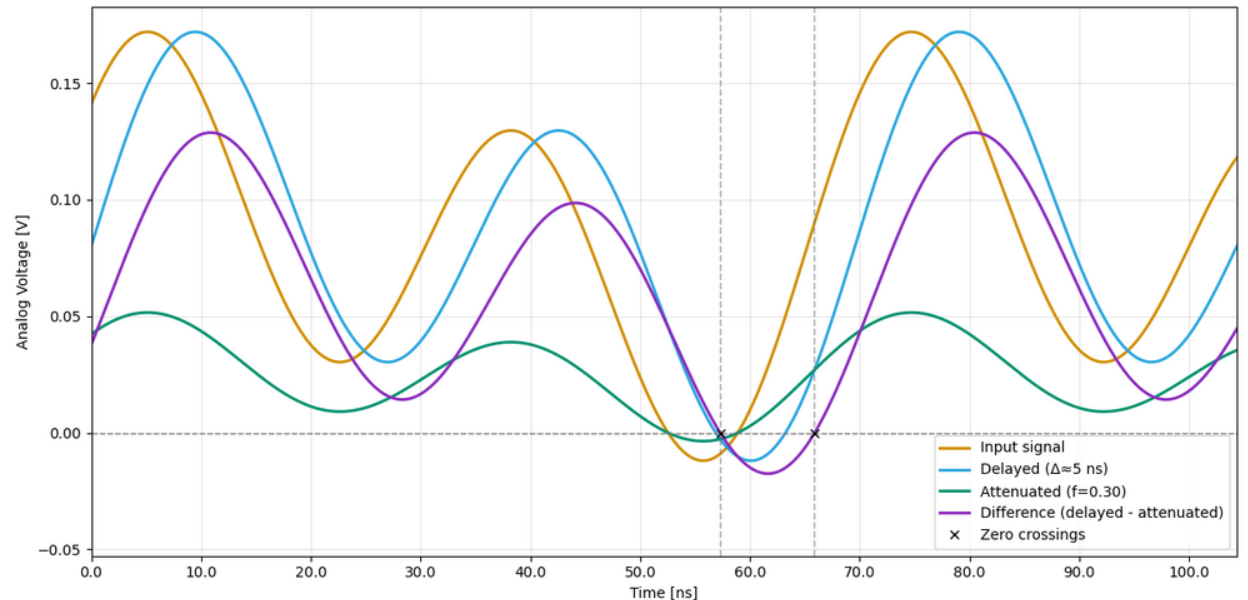
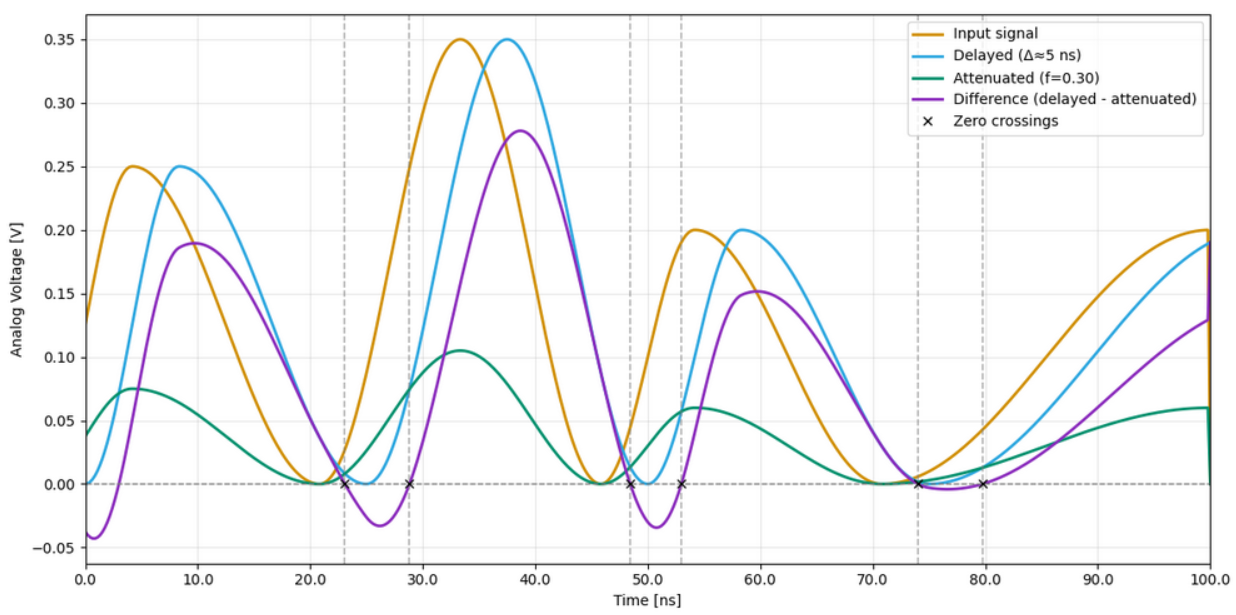
Update python file and images

Changed region(s): [[0.0, 0.0, 1.0, 1.0], [0.7686, 0.54, 0.7994, 0.6]]

diff --git a/python/cfd-100.py b/python/cfd-100.py
@@ -5,15 +5,35 @@ import matplotlib.pyplot as plt
 delay_ns = 5
 attenuation = 0.30
 
-t = np.linspace(0, 125, 2000)
+t = np.linspace(0, 525, 2000)
 
 
-def input_signal(t):
-    y = 0.07 * np.sin(2 * np.pi * t / 40)
-    y += 0.03 * np.sin(2 * np.pi * t / 80)
-    y += 0.08
+def sine_segment(t, t_start, t_end, y_start, y_end):
+    y = np.zeros_like(t)
+    
+    mask = (t >= t_start) & (t <= t_end)
+    x = (t[mask] - t_start) / (t_end - t_start)
+    
+    y[mask] = y_start + (y_end - y_start) * 0.5 * (1 - np.cos(np.pi * x))
+    
     return y
 
+def input_signal(t):
+    y = np.zeros_like(t)
+
+    y += sine_segment(t, 0, 10, 0, 0.25)    # rise to 0.25
+    y += sine_segment(t, 10, 30, 0.25, 0)    # fall to 0
+
+    y += sine_segment(t, 30, 45, 0, 0.35)    # rise to 0.45
+    y += sine_segment(t, 45, 60, 0.35, 0)    # fall
+
+    y += sine_segment(t, 60, 70, 0, 0.20)    #  large rise to 1.25
+    y += sine_segment(t, 70, 90, 0.20, 0)  # fall to 0.4
+
+    y += sine_segment(t, 90, 125, 0, 0.2)   # rise to 2.0
+
+    return y
+    
 
 def delay_signal(signal, t, delay):
     return np.interp(t - delay, t, signal, left=0, right=0)
@@ -46,7 +66,7 @@ plt.plot(t, y_attenuated, color='#00916e', linewidth=2, label=f'Attenuated (f={a
 plt.plot(t, y_diff, color='#8b2bbd', linewidth=2, label='Difference (delayed - attenuated)')
 
 plt.axhline(0, color='gray', linestyle='--', linewidth=1)
-zero_crossings = [tz for tz in zero_crossings if 10 < tz < 115]
+zero_crossings = [tz for tz in zero_crossings if 10 < tz < 125]
 
 for tz in zero_crossings:
     plt.axvline(tz, color='gray', linestyle='--', linewidth=1.2, alpha=0.6)
@@ -56,13 +76,13 @@ plt.plot([], [], 'x', color='black', label='Zero crossings')
 
 
 plt.xlim(5, 125)
-plt.xticks(np.linspace(5, 120, 11), np.linspace(0, 100, 11))
+plt.xticks(np.linspace(5, 125, 11), np.linspace(0, 100, 11))
 
 plt.xlabel('Time [ns]')
 plt.ylabel('Analog Voltage [V]')
 
 plt.grid(True, alpha=0.3)
 
-plt.legend(loc='lower right')
+plt.legend(loc='upper right')
 plt.tight_layout()
 plt.show()
